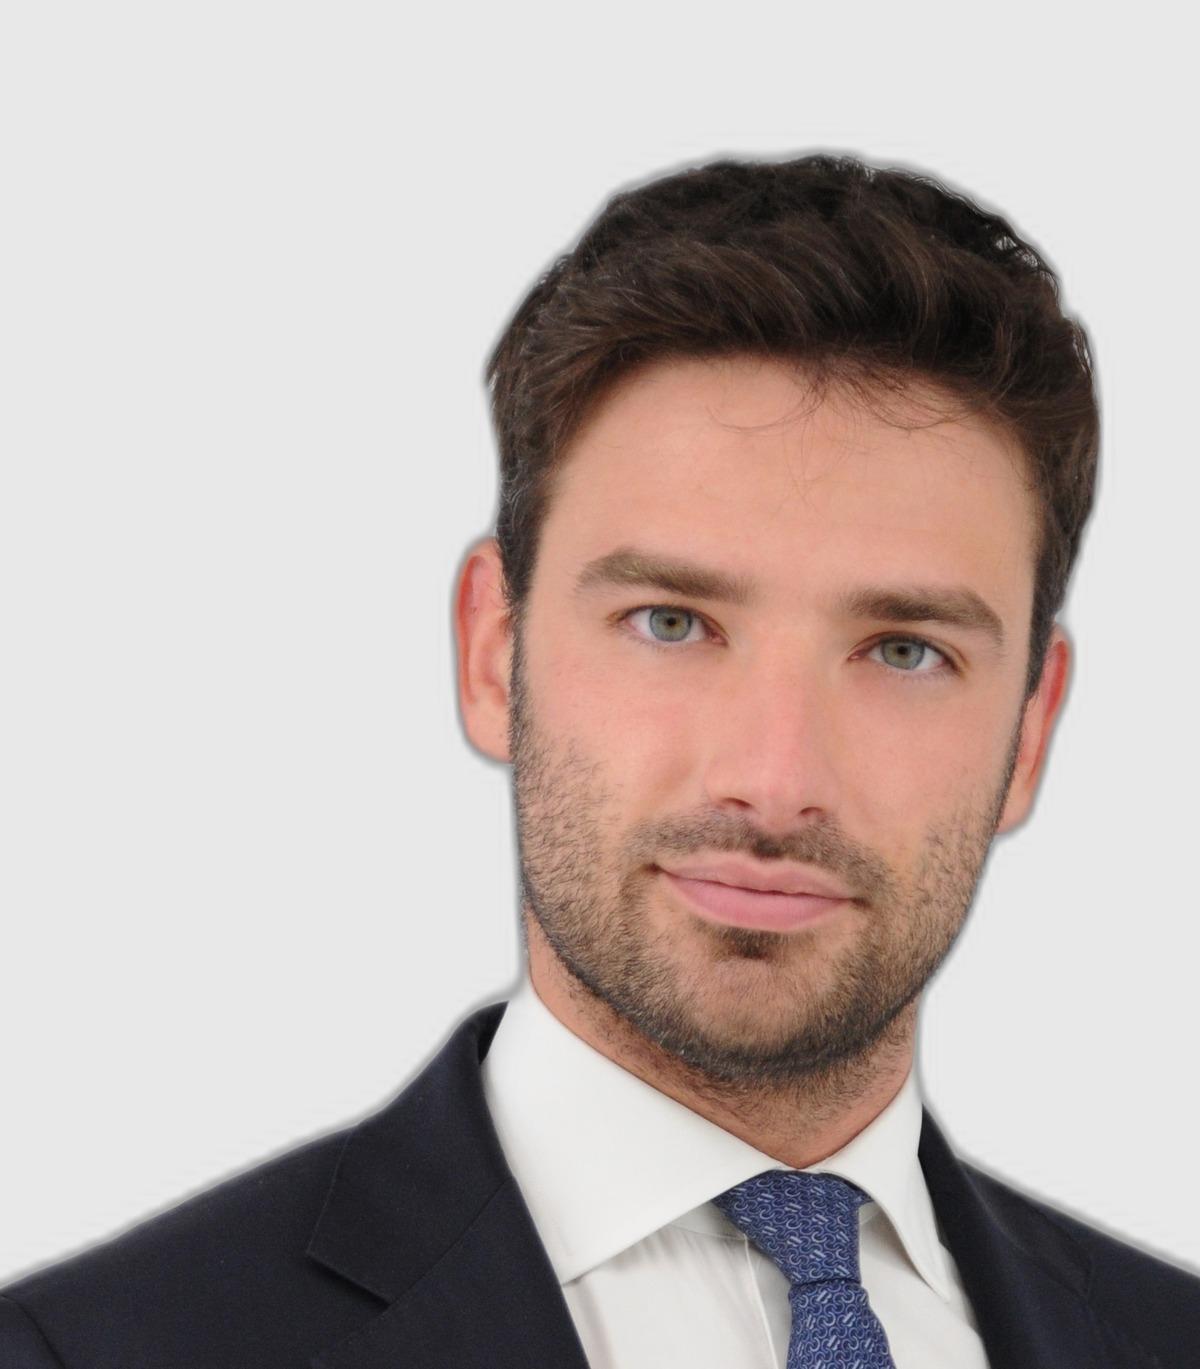
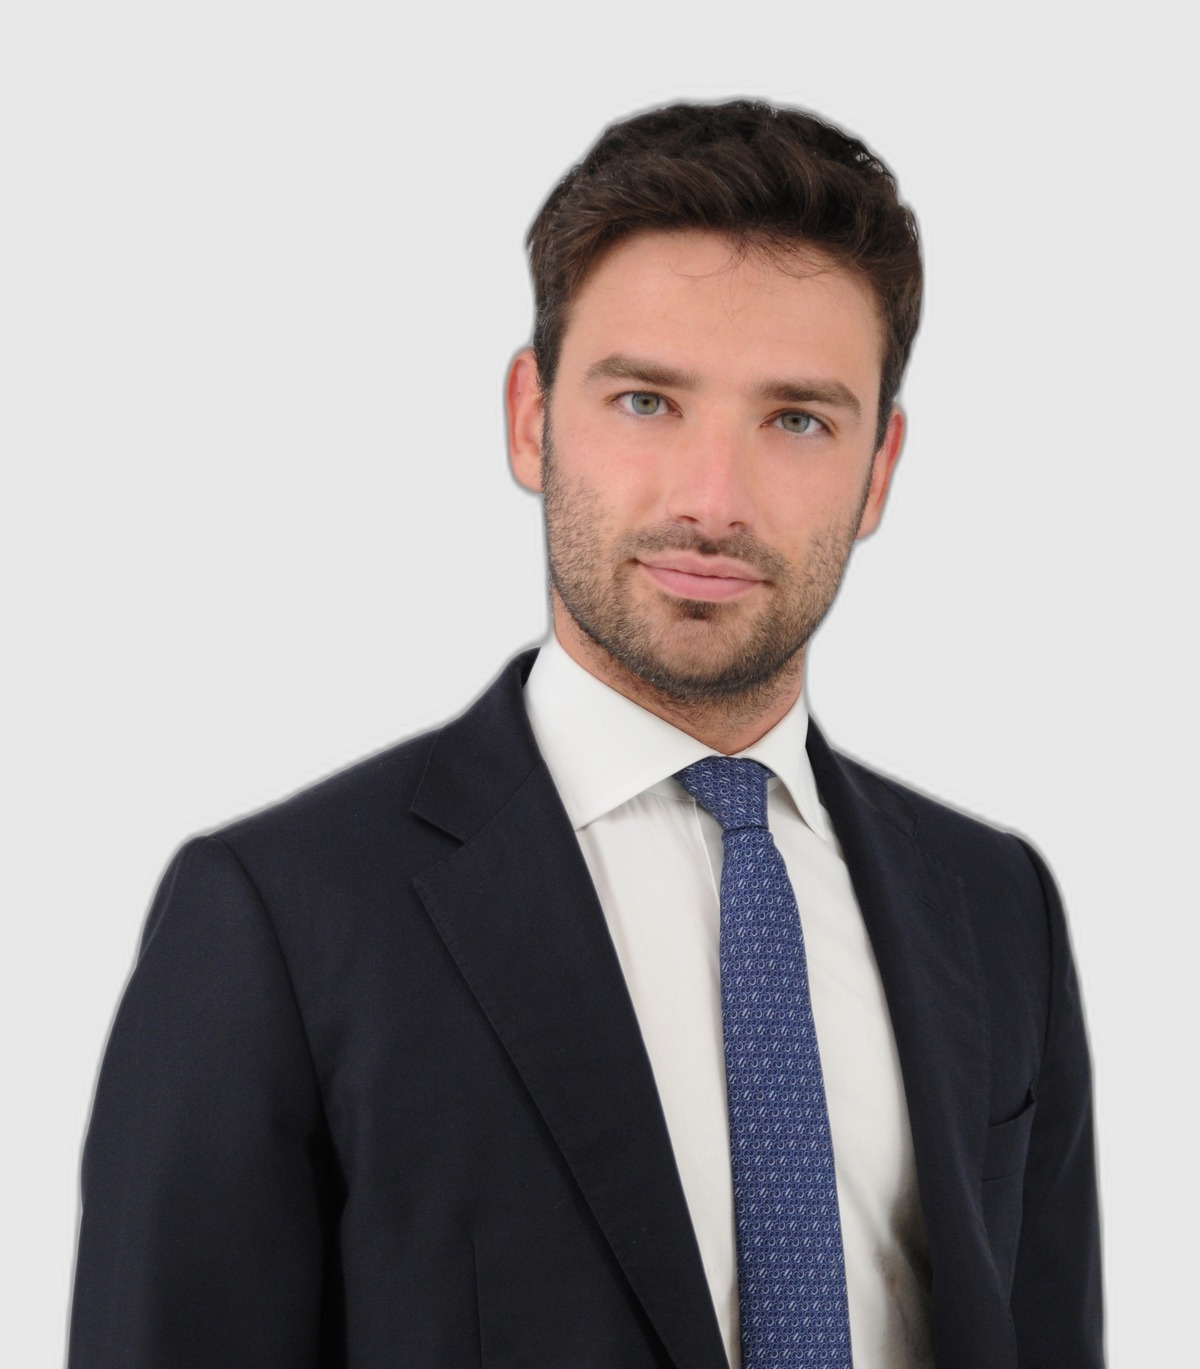
Uniform team card rectangle to Antonio's format (4/4.5, 88% width)
Apply Antonio's photo-wrap dimensions to all team cards via CSS.
Re-crop photos with less aggressive zoom to match Antonio's framing.
Remove Antonio's inline style (now handled by CSS default).

diff --git a/index-v2.html b/index-v2.html
@@ -16,7 +16,7 @@
   <link rel="stylesheet" href="https://cdnjs.cloudflare.com/ajax/libs/font-awesome/6.4.0/css/all.min.css" />
 
   <!-- Styles -->
-  <link rel="stylesheet" href="css/main-v2.css?v=9" />
+  <link rel="stylesheet" href="css/main-v2.css?v=10" />
 </head>
 <body>
 
@@ -432,7 +432,7 @@
     <div class="team-grid fade-in">
 
       <div class="team-card">
-        <div class="photo-wrap" style="aspect-ratio:4/4.5; width:88%; margin-left:0;"><img class="photo" src="images/team/antonio-urselli.jpg" alt="Antonio Urselli" style="object-position:50% 50%;"></div>
+        <div class="photo-wrap"><img class="photo" src="images/team/antonio-urselli.jpg" alt="Antonio Urselli"></div>
         <h4>Antonio Urselli</h4>
         <p class="role" data-it="Managing Director" data-en="Managing Director">Managing Director</p>
         <a href="https://www.linkedin.com/in/antonio-urselli/" class="linkedin" aria-label="LinkedIn" target="_blank" rel="noopener noreferrer"><i class="fa-brands fa-linkedin"></i></a>

diff --git a/css/main-v2.css b/css/main-v2.css
@@ -282,11 +282,12 @@ body.sidebar-open { overflow: hidden; }
 }
 
 #team .team-card .photo-wrap {
-  aspect-ratio: 4 / 5;
+  aspect-ratio: 4 / 4.5;
+  width: 88%;
 }
 
 #team .team-card .photo {
-  object-position: 50% 15%;
+  object-position: 50% 50%;
 }
 
 @media (max-width: 1024px) {
